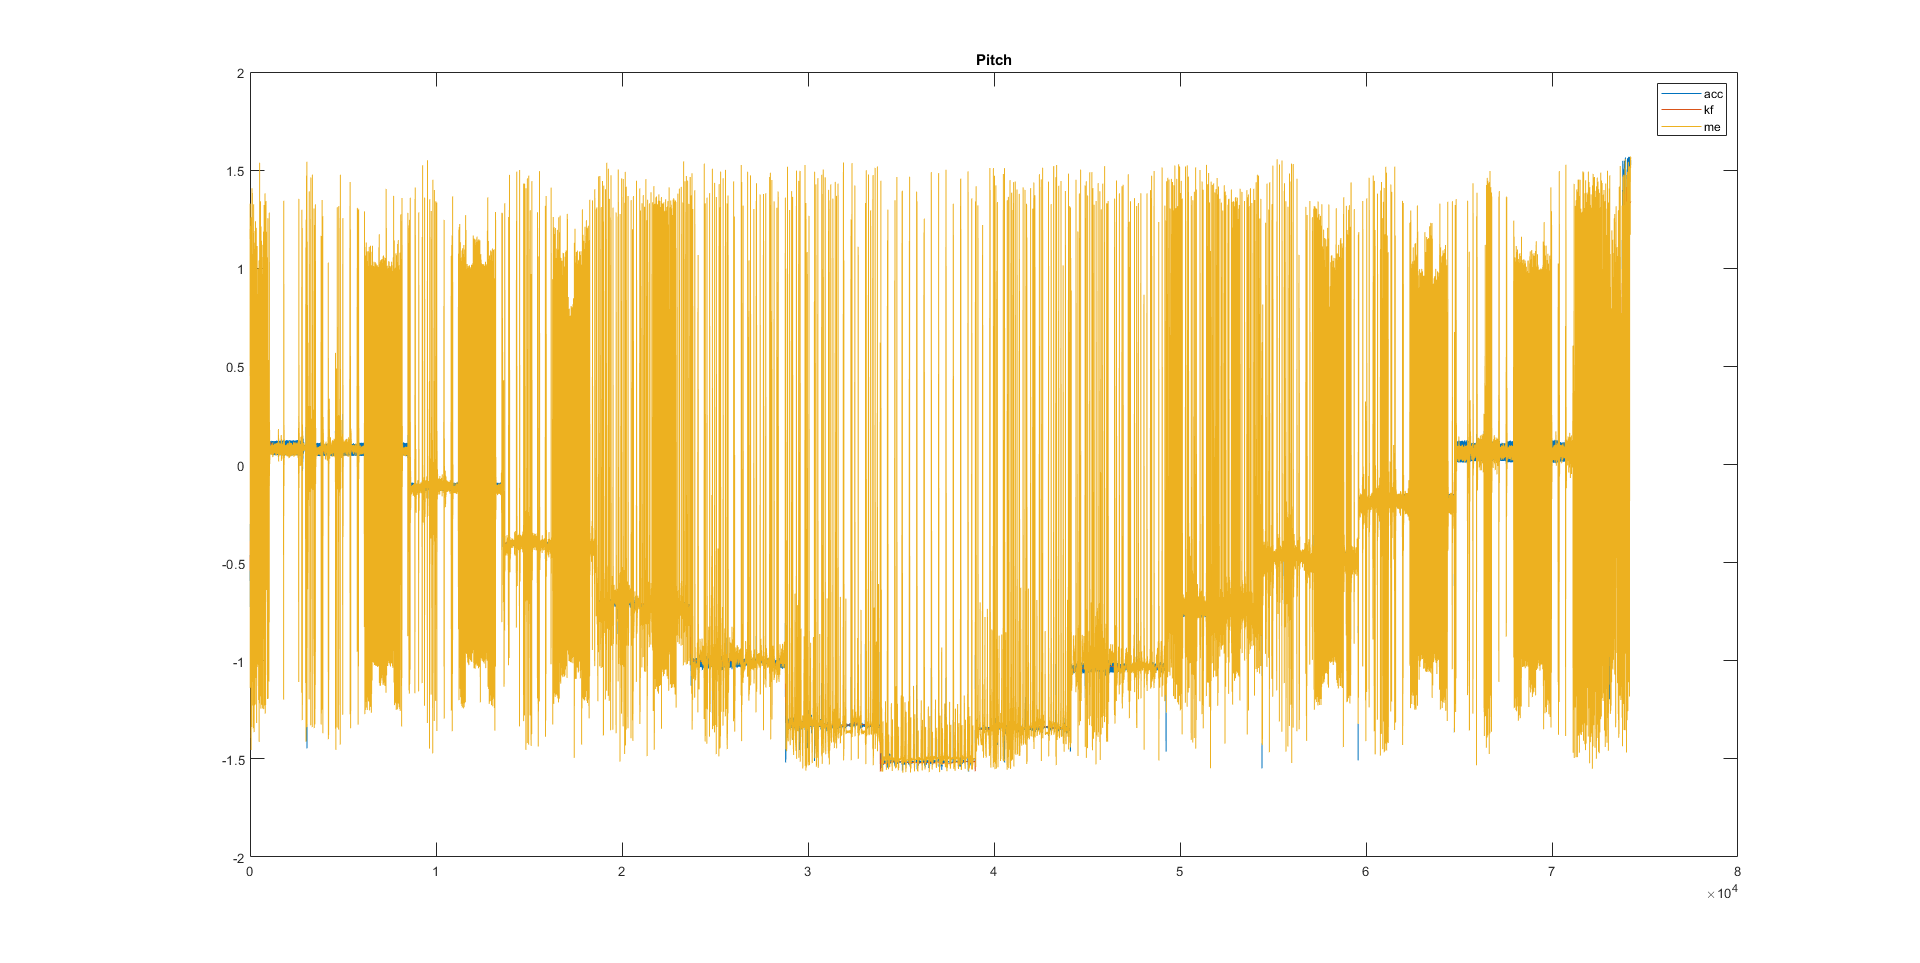
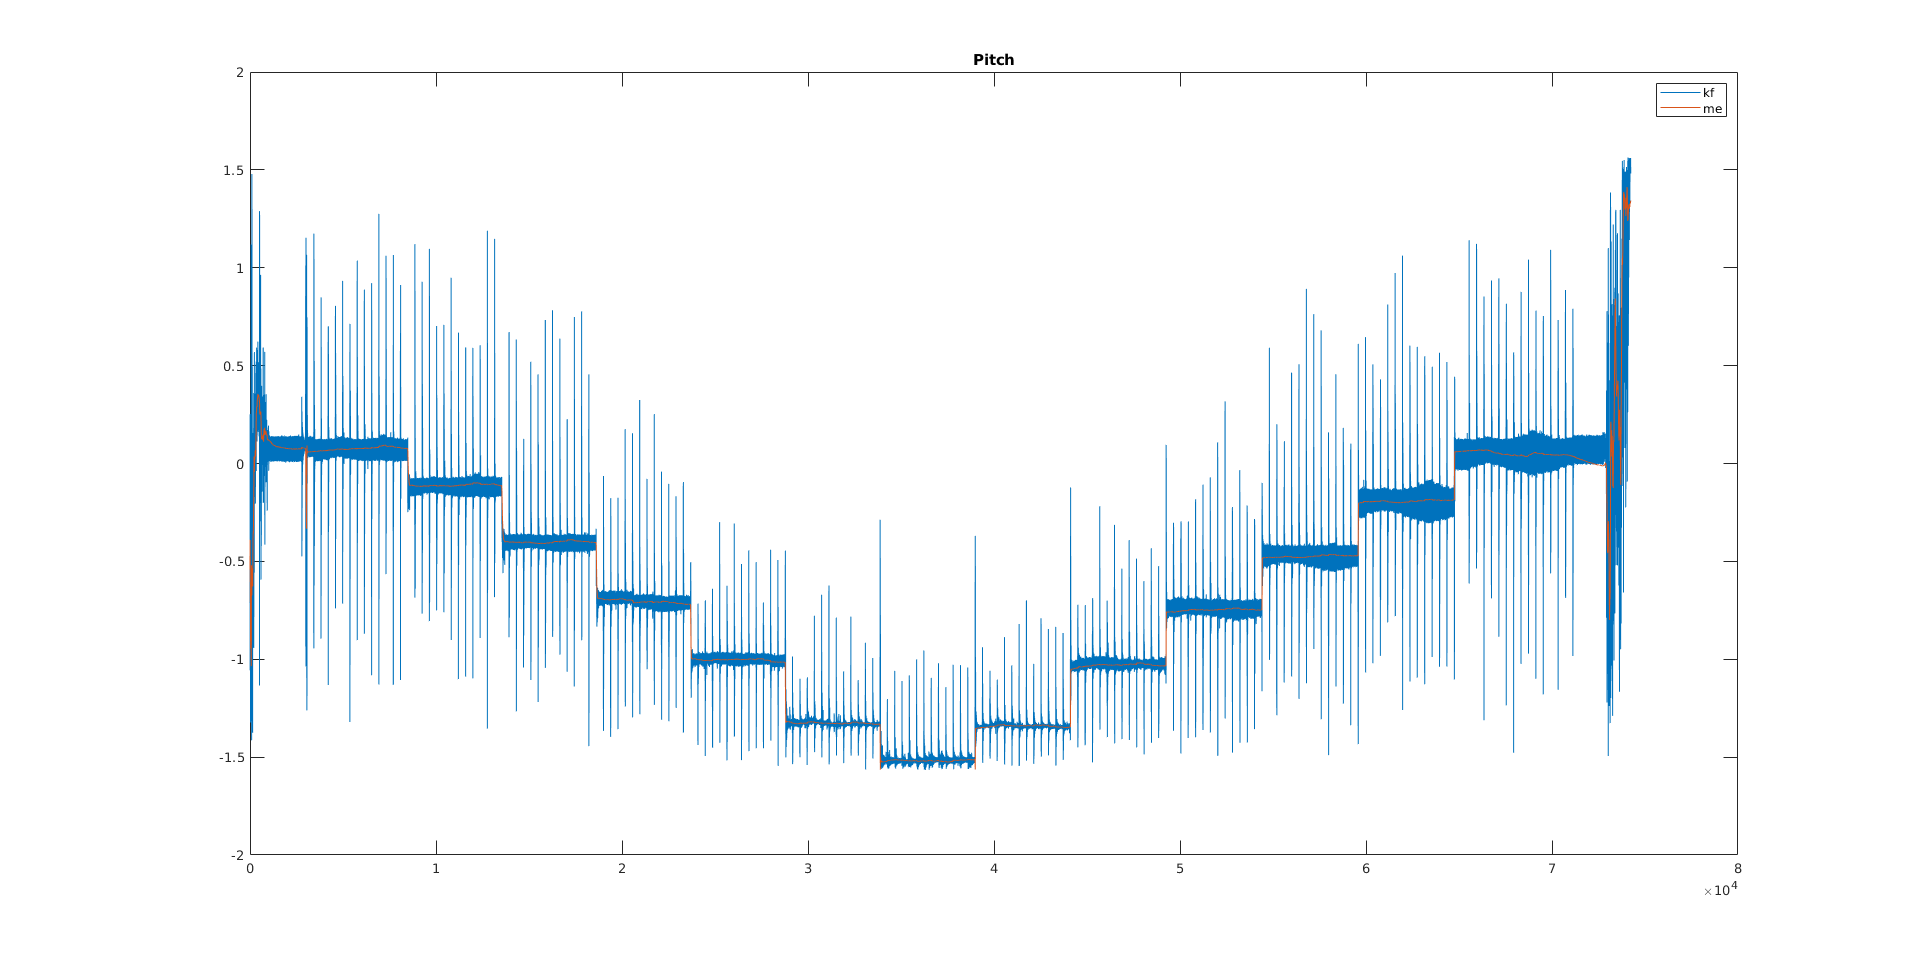
works

diff --git a/EKF.m b/EKF.m
@@ -1,0 +1,95 @@
+%{
+My OO version is killing me so here we are.
+%}
+
+clc; clear all; close all;
+
+addpath('data');
+data = importAPDM('data/', 'howard_arm_cal_646.h5', 'SI-000646');
+freq = 128; 
+dt = freq/128;
+acc = data(:,1:3);
+gyr = data(:,4:6);
+truth_q = data(:,10:13); % Output of IMU built in EKF
+
+
+% Initialize
+X = truth_q(1,:)';
+P = 1e-4 * eye(4);
+
+est_q(1,:) = X';
+
+noise_gyro = 0.02;
+noise_accel = 0.15;
+
+Q = noise_gyro .^2 * eye(3);
+R = noise_accel .^2 * eye(3);
+
+gravity = 9.81;
+
+% Run!
+N = length(acc);
+
+for i = 2:N
+    %% Time Update
+    w = gyr(i,:);
+    
+    % State transition matrix
+    Omega = skew_quat(w);
+    F = eye(4) + dt * Omega / 2;
+    
+    % Process noise matrix
+    W = [-X(2), -X(3), -X(4); ...
+          X(1), -X(4),  X(3); ...
+          X(4),  X(1), -X(2); ...
+         -X(3),  X(2),  X(1)] * (-dt/2);
+     
+    X = F * X;
+    X = X ./ norm(X);
+    
+    P = F*P*F' + W*Q*W';
+    
+    %% Measurement Update
+    a = acc(i,:);
+    % Normalize to match expected value?
+    z = (a ./ (norm(a) / gravity))';
+    
+    H = [-X(3),  X(4), -X(1),  X(2); ...
+          X(2),  X(1),  X(4),  X(3); ...
+          X(1), -X(2), -X(3),  X(4)] * 2 * gravity;
+    
+    V = eye(3);
+      
+    z_pred = H*X;
+    
+    residual = z - z_pred;
+    
+    S = H*P*H' + V*R*V';
+    
+    K = P*H' / S;
+    
+    X = X + K*residual;
+    
+    P = (eye(4) - K*H) * P;
+    
+    X = X / norm(X);
+    
+    P = (P + P')/2;
+    
+    est_q(i,:) = X';
+end
+
+%% Plotting
+
+eul_est = quat2eul(est_q);
+eul_ekf = quatToEuler(truth_q);
+
+figure(1)
+plot([eul_est(:,2), eul_ekf(:,2)]); 
+legend('kf', 'me')
+title("Pitch");
+
+figure(2)
+plot([eul_est(:,3), eul_ekf(:,3)]); 
+legend('kf', 'me')
+title("Roll");

diff --git a/fullstate_demo.m b/fullstate_demo.m
@@ -4,7 +4,7 @@ addpath('FullState');
 addpath('data');
 
 %% Process Data
-data = importAPDM('data\', 'howard_arm_cal_646.h5', 'SI-000646');
+data = importAPDM('data/', 'howard_arm_cal_646.h5', 'SI-000646');
 freq = 128; 
 dt = freq/128;
 acc = data(:,1:3);
@@ -15,14 +15,19 @@ quat_est = data(:,10:13); % Output of IMU built in EKF
 %% Tuning Parameters
 
 stationary_range = 1250:2250;
-sigma_a = mean(std(acc(stationary_range, :)));
-sigma_w = mean(std(gyr(stationary_range, :)));
+sigma_a = std(acc(stationary_range, :));
+sigma_w = std(gyr(stationary_range, :));
 
-sigma_p = .5;
+sigma_p = .1;
 
-Q = sigma_w^2 .* eye(3);
-R = sigma_a^2 .* eye(3);
-P_init = sigma_p^2 * eye(4);
+% Process Noise
+Q = sigma_w.^2 .* eye(3);
+
+% Measurement Noise
+R = sigma_a.^2 .* eye(3);
+
+% Initial state covariance
+P_init = sigma_p^2 * eye(4,4) + (0.1*sigma_p)^2 * ones(4,4);
 
 %% Set up 
 
@@ -36,7 +41,8 @@ EKF = FullStateEKF(Q, R, P_init, q_i_b, dt);
 for i = 1:length(acc)
    gyro = gyr(i,:);
    %disp("Time update");
-   EKF.TimeUpdate(gyro);
+   %EKF.TimeUpdate(gyro);
+   EKF.TimeUpdate([0 0 0]);
    measurement = acc(i,:);
    %disp("Measurement update");
    EKF.MeasurementUpdate(measurement);

diff --git a/FullState/FullStateEKF.m b/FullState/FullStateEKF.m
@@ -76,8 +76,10 @@ classdef FullStateEKF < handle
             z_pred = R_b_i * g_i;
             %z_pred'
             
+            residual = accel' - z_pred
+            
             K = (P_prior*H') / (H*P_prior*H' + V*R*V');
-            delta_x = K*(accel' - z_pred);
+            delta_x = K*(residual);
             x_hat_post = x_hat_prior + delta_x;
             P_post = (eye(4) - K*H)*P_prior;
             
@@ -92,7 +94,7 @@ classdef FullStateEKF < handle
         
         function [F] = GetStateTransitionJacobian(obj, gyro)
             omega = skew_quat(gyro);
-            F = [eye(4) + (obj.dt / 2)*omega];
+            F = eye(4) + (obj.dt / 2)*omega;
         end
         
         function [H] = GetMeasurementJacobian(obj, accel)
